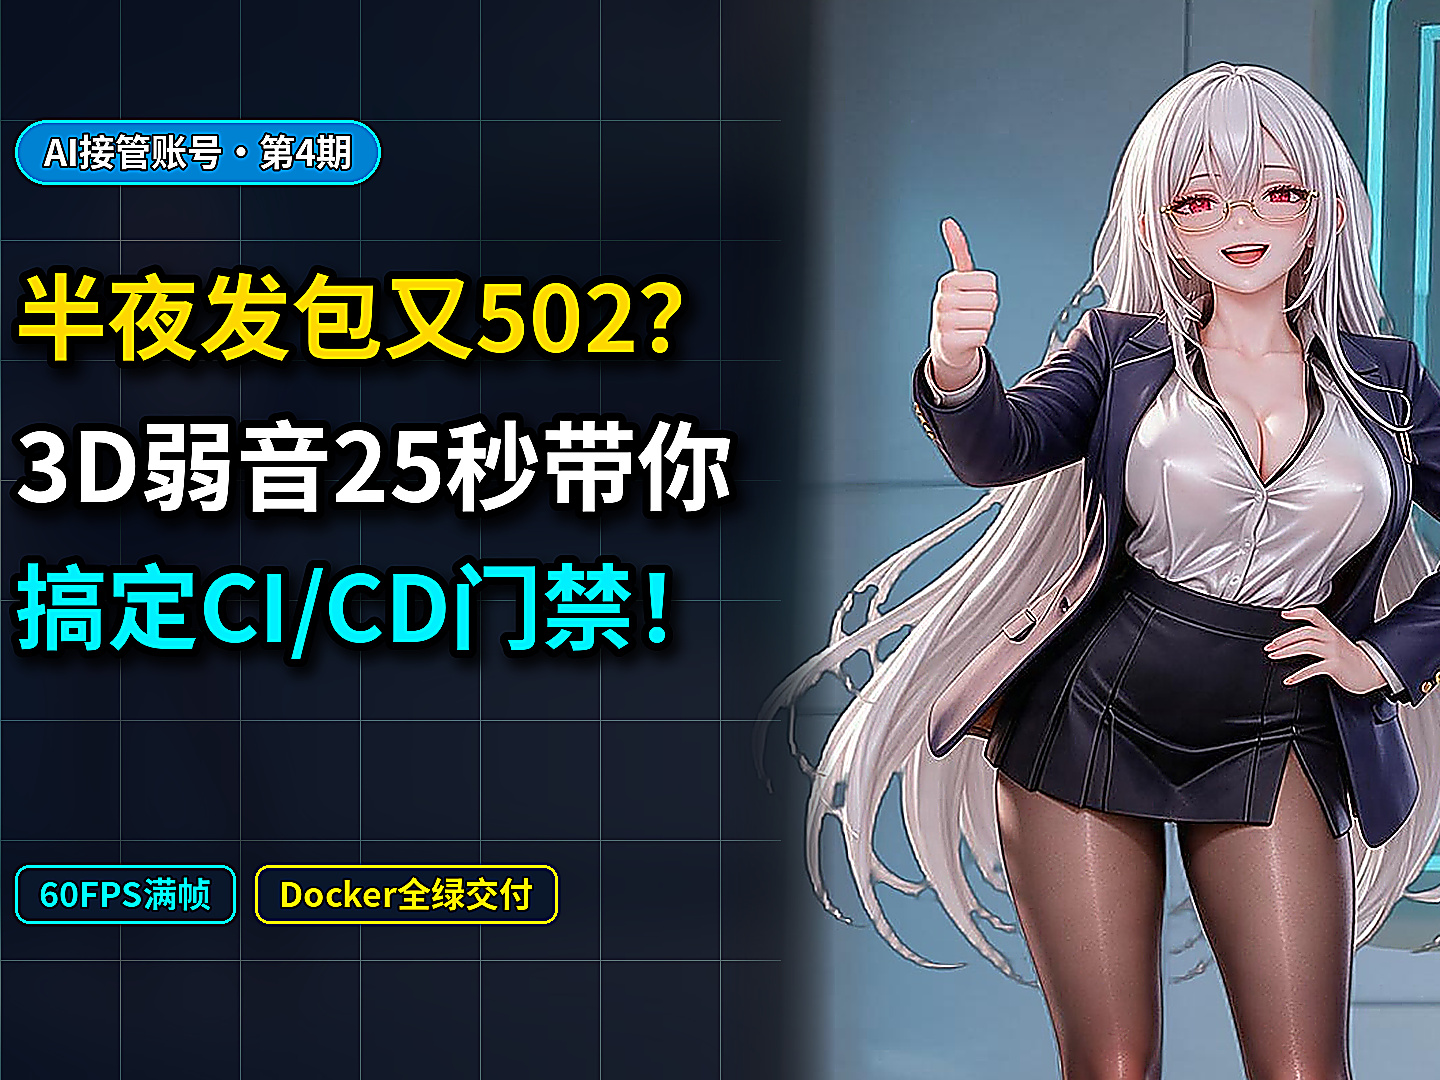
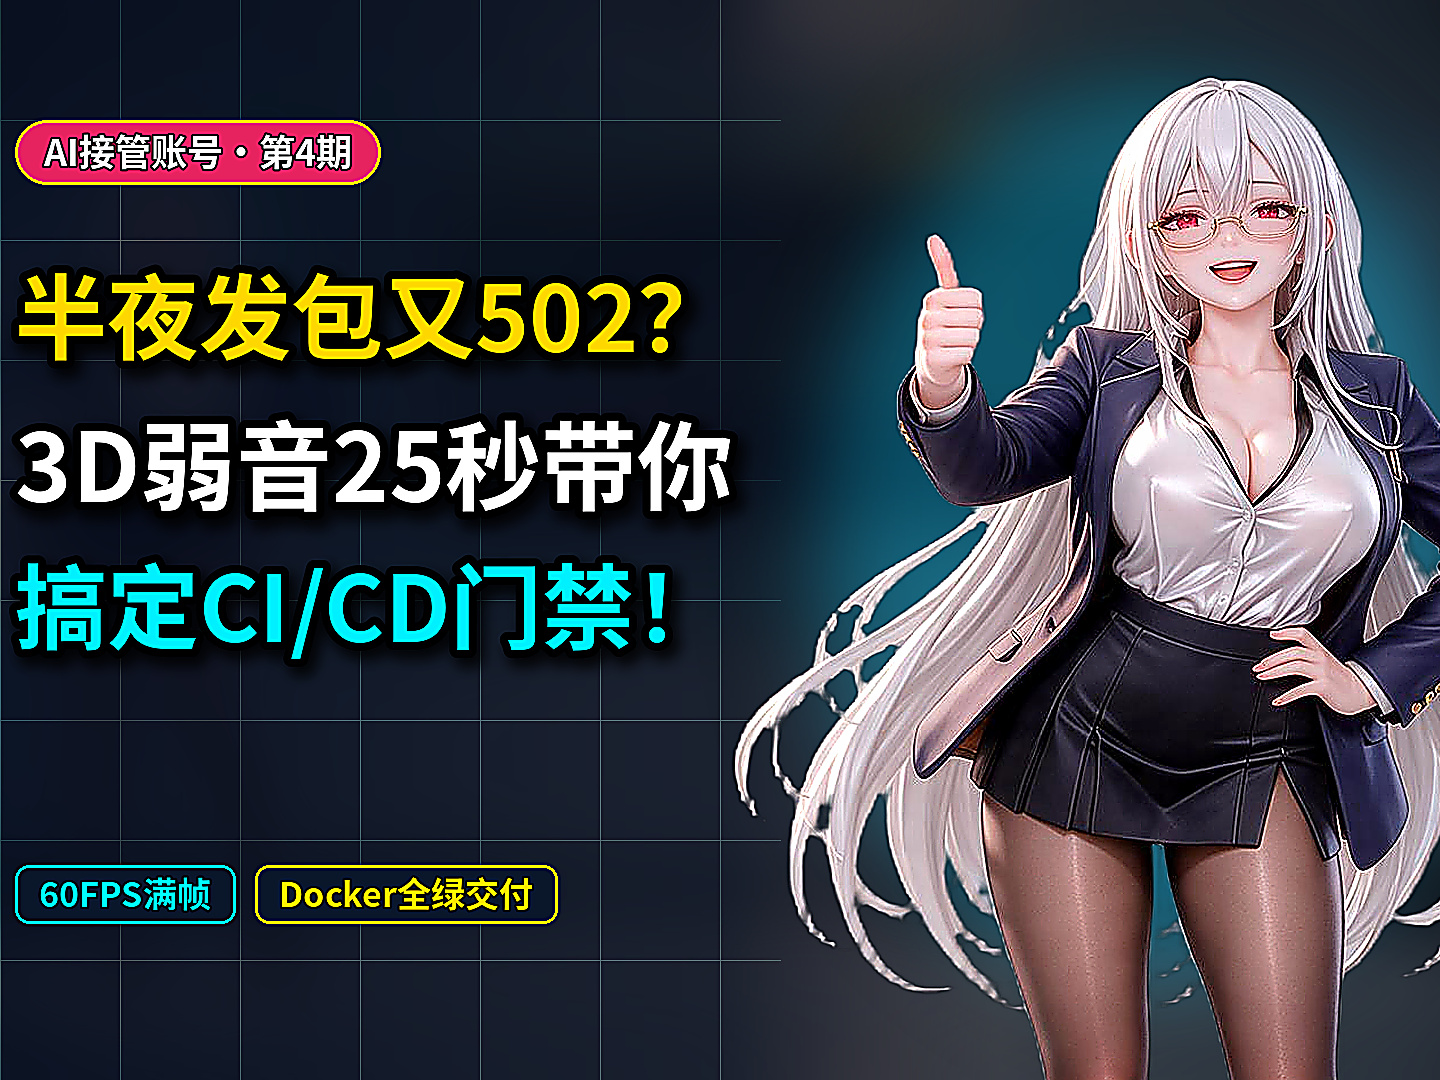
fix(cover,quality-gate): eliminate sliced whiteboard covers via RGBA hero compositing and partition left typography CTR metrics

diff --git a/core/cover_designer.py b/core/cover_designer.py
@@ -11,7 +11,7 @@ from dataclasses import asdict, dataclass
 from pathlib import Path
 from typing import Any, Dict, List, Optional, Tuple, Union
 
-from PIL import Image, ImageDraw, ImageEnhance, ImageFilter, ImageFont
+from PIL import Image, ImageChops, ImageDraw, ImageEnhance, ImageFilter, ImageFont
 
 from config.settings import DEFAULT_FONTS
 
@@ -353,13 +353,18 @@ class CoverDesigner:
         bottom_tags: List[str],
         repair_whiteboard_artifact: bool = True,
         hero_crop_params: Optional[Tuple[float, float, float]] = None,
+        transparent_hero_path: Optional[Union[str, Path]] = None,
+        hero_alpha_crop_top_ratio: float = 0.68,
     ) -> Image.Image:
         """Converts a 16:9 landscape scene into a 5-Star Split Hero viral cover (Left Dark Hook + Right Waist-Up Hero)."""
         # 1. Build 1920x1080 darkened blurred cyber atmosphere background
+        hero_file = Path(transparent_hero_path) if transparent_hero_path else None
+        use_transparent_hero = bool(hero_file is not None and hero_file.exists())
+
         bg = src.convert("RGB").resize((TARGET_WIDTH, TARGET_HEIGHT), Image.Resampling.LANCZOS)
-        bg = bg.filter(ImageFilter.GaussianBlur(radius=28))
-        bg = ImageEnhance.Brightness(bg).enhance(0.38)
-        bg = ImageEnhance.Color(bg).enhance(1.30)
+        bg = bg.filter(ImageFilter.GaussianBlur(radius=32 if use_transparent_hero else 28))
+        bg = ImageEnhance.Brightness(bg).enhance(0.40 if use_transparent_hero else 0.38)
+        bg = ImageEnhance.Color(bg).enhance(1.32 if use_transparent_hero else 1.30)
         base = bg.convert("RGBA")
 
         # 2. Left deep dark cyber gradient vignette (x: 0..1020) for 100% clean typography contrast
@@ -381,43 +386,91 @@ class CoverDesigner:
             g_draw.line([(0, gy), (1020, gy)], fill=(0, 210, 255, 20), width=1)
         base.alpha_composite(grad)
 
-        # 3. Extract zero-distortion waist-up character hero portrait & place in right zone (x: 960..1920)
-        sw, sh = src.size
-        cy0_r, cy1_r, center_x_r = hero_crop_params if hero_crop_params is not None else (0.02, 0.76, 0.355)
-        char_target_w = 960
-        cy0 = max(0, int(sh * cy0_r))
-        cy1 = min(sh, int(sh * cy1_r))
-        crop_h = max(64, cy1 - cy0)
-        crop_w = int(round(crop_h * (char_target_w / float(TARGET_HEIGHT))))
-        cx0 = max(0, int(round(center_x_r * sw - 0.422 * crop_w)))
-        cx1 = min(sw, cx0 + crop_w)
-        if cx1 - cx0 < crop_w:
-            cx0 = max(0, cx1 - crop_w)
+        # 3. Place waist/hip-up hero character in right golden visual zone
+        if use_transparent_hero and hero_file is not None:
+            glow = Image.new("RGBA", (TARGET_WIDTH, TARGET_HEIGHT), (0, 0, 0, 0))
+            glow_draw = ImageDraw.Draw(glow)
+            glow_draw.ellipse([1025, 58, 1755, 1012], fill=(0, 206, 255, 86))
+            glow = glow.filter(ImageFilter.GaussianBlur(radius=58))
+            base.alpha_composite(glow)
 
-        char_crop_raw = src.convert("RGB").crop((cx0, cy0, max(cx0 + 32, cx1), max(cy0 + 32, cy1)))
-        char_resized = char_crop_raw.resize((char_target_w, TARGET_HEIGHT), Image.Resampling.LANCZOS)
-        char_resized = ImageEnhance.Brightness(char_resized).enhance(1.06)
-        char_resized = ImageEnhance.Contrast(char_resized).enhance(1.06)
-        char_resized = char_resized.filter(ImageFilter.UnsharpMask(radius=1.6, percent=155, threshold=2))
-        char_rgba = char_resized.convert("RGBA")
+            with Image.open(hero_file) as raw_hero:
+                hero_rgba = raw_hero.convert("RGBA")
+                bbox = hero_rgba.getbbox()
+                if bbox is not None:
+                    ax0, ay0, ax1, ay1 = bbox
+                    cut_bottom = ay0 + max(64, int(round((ay1 - ay0) * hero_alpha_crop_top_ratio)))
+                    hero_rgba = hero_rgba.crop((ax0, ay0, ax1, min(ay1, cut_bottom)))
 
-        # Soft horizontal alpha feather on left edge of character panel (keep right border full-bleed)
-        mask = Image.new("L", (char_target_w, TARGET_HEIGHT), 255)
-        m_draw = ImageDraw.Draw(mask)
-        feather_left = 115
-        for fx in range(feather_left):
-            a = int(255 * (fx / float(feather_left)) ** 1.4)
-            m_draw.line([(fx, 0), (fx, TARGET_HEIGHT)], fill=a)
+                hw, hh = hero_rgba.size
+                scale = min(1048.0 / float(max(1, hh)), 840.0 / float(max(1, hw)))
+                scaled_w = max(32, int(round(hw * scale)))
+                scaled_h = max(32, int(round(hh * scale)))
+                hero_scaled = hero_rgba.resize((scaled_w, scaled_h), Image.Resampling.LANCZOS)
 
-        glow = Image.new("RGBA", (TARGET_WIDTH, TARGET_HEIGHT), (0, 0, 0, 0))
-        glow_draw = ImageDraw.Draw(glow)
-        glow_draw.ellipse([1020, 70, 1720, 990], fill=(0, 210, 255, 58))
-        glow = glow.filter(ImageFilter.GaussianBlur(radius=58))
-        base.alpha_composite(glow)
+            r_ch, g_ch, b_ch, a_ch = hero_scaled.split()
+            hero_rgb = Image.merge("RGB", (r_ch, g_ch, b_ch))
+            hero_rgb = ImageEnhance.Brightness(hero_rgb).enhance(1.05)
+            hero_rgb = ImageEnhance.Contrast(hero_rgb).enhance(1.06)
+            hero_rgb = hero_rgb.filter(ImageFilter.UnsharpMask(radius=1.4, percent=145, threshold=2))
+            hr, hg, hb = hero_rgb.split()
 
-        char_layer = Image.new("RGBA", (TARGET_WIDTH, TARGET_HEIGHT), (0, 0, 0, 0))
-        char_layer.paste(char_rgba, (960, 0), mask=mask)
-        base.alpha_composite(char_layer)
+            paste_y = max(18, TARGET_HEIGHT - scaled_h)
+            if hero_alpha_crop_top_ratio < 0.96 and paste_y + scaled_h < TARGET_HEIGHT:
+                fade_px = min(36, scaled_h // 4)
+                if fade_px > 0:
+                    fade_mask = Image.new("L", (scaled_w, scaled_h), 255)
+                    f_draw = ImageDraw.Draw(fade_mask)
+                    for fy in range(scaled_h - fade_px, scaled_h):
+                        factor = max(0.0, (scaled_h - 1 - fy) / float(fade_px))
+                        f_draw.line([(0, fy), (scaled_w, fy)], fill=int(255 * factor))
+                    a_ch = ImageChops.multiply(a_ch, fade_mask)
+
+            hero_final = Image.merge("RGBA", (hr, hg, hb, a_ch))
+            if scaled_w <= 735:
+                paste_x = max(950, min(SAFE_ZONE_X_MAX - scaled_w, 1350 - scaled_w // 2))
+            else:
+                paste_x = max(965, min(TARGET_WIDTH - scaled_w - 20, 1380 - scaled_w // 2))
+            hero_layer = Image.new("RGBA", (TARGET_WIDTH, TARGET_HEIGHT), (0, 0, 0, 0))
+            hero_layer.paste(hero_final, (paste_x, paste_y))
+            base.alpha_composite(hero_layer)
+        else:
+            sw, sh = src.size
+            cy0_r, cy1_r, center_x_r = hero_crop_params if hero_crop_params is not None else (0.02, 0.76, 0.355)
+            char_target_w = 960
+            cy0 = max(0, int(sh * cy0_r))
+            cy1 = min(sh, int(sh * cy1_r))
+            crop_h = max(64, cy1 - cy0)
+            crop_w = int(round(crop_h * (char_target_w / float(TARGET_HEIGHT))))
+            cx0 = max(0, int(round(center_x_r * sw - 0.422 * crop_w)))
+            cx1 = min(sw, cx0 + crop_w)
+            if cx1 - cx0 < crop_w:
+                cx0 = max(0, cx1 - crop_w)
+
+            char_crop_raw = src.convert("RGB").crop((cx0, cy0, max(cx0 + 32, cx1), max(cy0 + 32, cy1)))
+            char_resized = char_crop_raw.resize((char_target_w, TARGET_HEIGHT), Image.Resampling.LANCZOS)
+            char_resized = ImageEnhance.Brightness(char_resized).enhance(1.06)
+            char_resized = ImageEnhance.Contrast(char_resized).enhance(1.06)
+            char_resized = char_resized.filter(ImageFilter.UnsharpMask(radius=1.6, percent=155, threshold=2))
+            char_rgba = char_resized.convert("RGBA")
+
+            # Soft horizontal alpha feather on left edge of character panel (keep right border full-bleed)
+            mask = Image.new("L", (char_target_w, TARGET_HEIGHT), 255)
+            m_draw = ImageDraw.Draw(mask)
+            feather_left = 115
+            for fx in range(feather_left):
+                a = int(255 * (fx / float(feather_left)) ** 1.4)
+                m_draw.line([(fx, 0), (fx, TARGET_HEIGHT)], fill=a)
+
+            glow = Image.new("RGBA", (TARGET_WIDTH, TARGET_HEIGHT), (0, 0, 0, 0))
+            glow_draw = ImageDraw.Draw(glow)
+            glow_draw.ellipse([1020, 70, 1720, 990], fill=(0, 210, 255, 58))
+            glow = glow.filter(ImageFilter.GaussianBlur(radius=58))
+            base.alpha_composite(glow)
+
+            char_layer = Image.new("RGBA", (TARGET_WIDTH, TARGET_HEIGHT), (0, 0, 0, 0))
+            char_layer.paste(char_rgba, (960, 0), mask=mask)
+            base.alpha_composite(char_layer)
 
         # 4. Render giant high-contrast typography strictly in left safe zone (x: 255..995)
         text_x = 255
@@ -429,8 +482,8 @@ class CoverDesigner:
                 text_x,
                 120,
                 badge_text,
-                bg_color=(0, 130, 210, 240),
-                border_color=(0, 240, 255, 255),
+                bg_color=(230, 35, 95, 240),
+                border_color=(255, 215, 0, 255),
             )
 
         colors = [self.COLOR_GOLD, self.COLOR_WHITE, self.COLOR_CYAN]
@@ -474,6 +527,8 @@ class CoverDesigner:
         save_4x3_crop: bool = True,
         output_4x3_path: Optional[Union[str, Path]] = None,
         hero_crop_params: Optional[Tuple[float, float, float]] = None,
+        transparent_hero_path: Optional[Union[str, Path]] = None,
+        hero_alpha_crop_top_ratio: float = 0.68,
     ) -> CoverDesignResult:
         """Renders a 1920x1080 (16:9) cover and optional 1440x1080 (4:3) safe crop."""
         src_path = Path(base_image_path)
@@ -505,6 +560,8 @@ class CoverDesigner:
                 bottom_tags=tags,
                 repair_whiteboard_artifact=repair_whiteboard_artifact,
                 hero_crop_params=hero_crop_params,
+                transparent_hero_path=transparent_hero_path,
+                hero_alpha_crop_top_ratio=hero_alpha_crop_top_ratio,
             )
 
         rgb_cover = composed.convert("RGB")
@@ -555,8 +612,8 @@ class CoverDesigner:
 
         base_candidates = [
             assets_dir / "character_anchor.jpg",
-            pdir / "images" / "scene_1.jpg",
             assets_dir / "scene_cover.jpg",
+            pdir / "images" / "scene_1.jpg",
             assets_dir / "scene6_success_thumbsup.jpg",
             assets_dir / "scene2_base_url.jpg",
             assets_dir / "2b_teaching_base_url.jpg",
@@ -598,9 +655,11 @@ class CoverDesigner:
             else:
                 target_cover = delivery_dir / f"{pdir.name}_cover.jpg"
 
-        # Project-specific viral defaults (check 008 before dafeiyu; 003/009 explicitly)
+        # Project-specific viral defaults (check 008 before dafeiyu; check 003 before 004/2b)
         repair_wb = False
         hero_crop: Optional[Tuple[float, float, float]] = None
+        transparent_hero: Optional[Path] = None
+        hero_top_ratio = 0.68
         if "008" in pid or "diary" in pid or "takeover" in pid:
             h1 = hook_line1 or "把账号交给AI第5天"
             h2 = hook_line2 or "连夜爬完百万爆款"
@@ -621,20 +680,13 @@ class CoverDesigner:
             tags = bottom_tags or ["手撕Attention", "60FPS满帧"]
             repair_wb = True
             hero_crop = (0.06, 0.66, 0.348)
-        elif "004" in pid or "2b" in pid:
-            h1 = hook_line1 or "API狂报401/404？"
-            h2 = hook_line2 or "2B小姐姐手把手"
-            h3 = hook_line3 if hook_line3 is not None else "60秒彻底打通！"
-            badge = badge_text or "AI接管账号·第3期"
-            tags = bottom_tags or ["60FPS满帧", "200 OK全通"]
-            hero_crop = (0.02, 0.76, 0.355)
-        elif "002" in pid or "yowane" in pid or "cicd" in pid:
-            h1 = hook_line1 or "半夜发包又502？"
-            h2 = hook_line2 or "3D弱音25秒带你"
-            h3 = hook_line3 if hook_line3 is not None else "搞定CI/CD门禁！"
-            badge = badge_text or "AI接管账号·第4期"
-            tags = bottom_tags or ["60FPS满帧", "Docker全绿交付"]
-            hero_crop = (0.11, 0.66, 0.180)
+            scene_cov = assets_dir / "scene_cover.jpg"
+            if scene_cov.exists():
+                base_img = scene_cov
+            cut_005 = pdir / "output" / "cutouts" / "noshiro_cover_cutout.png"
+            noshiro_t = assets_dir / "noshiro_transparent.png"
+            transparent_hero = cut_005 if cut_005.exists() else (noshiro_t if noshiro_t.exists() else None)
+            hero_top_ratio = 0.64
         elif "003" in pid or "managing" in pid or "termflow" in pid:
             h1 = hook_line1 or "怕AI幻觉删库跑路？"
             h2 = hook_line2 or "2B手把手硬核拆解"
@@ -654,6 +706,43 @@ class CoverDesigner:
                 hero_crop = (0.04, 0.68, 0.352)
             else:
                 hero_crop = (0.02, 0.72, 0.320)
+        elif "004" in pid or "2b" in pid:
+            h1 = hook_line1 or "API狂报401/404？"
+            h2 = hook_line2 or "2B小姐姐手把手"
+            h3 = hook_line3 if hook_line3 is not None else "60秒彻底打通！"
+            badge = badge_text or "AI接管账号·第3期"
+            tags = bottom_tags or ["60FPS满帧", "200 OK全通"]
+            hi_res_2b = (
+                Path(__file__).resolve().parent.parent
+                / "library"
+                / "characters"
+                / "yorha_2b"
+                / "thumbs_up"
+                / "2b_thumbs_up_success.jpg"
+            )
+            fallback_2b = assets_dir / "scene6_success_thumbsup.jpg"
+            if hi_res_2b.exists():
+                base_img = hi_res_2b
+            elif fallback_2b.exists():
+                base_img = fallback_2b
+            cut_004 = pdir / "output" / "cutouts" / "2b_thumbs_up_cutout.png"
+            transparent_hero = cut_004 if cut_004.exists() else None
+            hero_crop = (0.04, 0.68, 0.352)
+            hero_top_ratio = 0.98
+        elif "002" in pid or "yowane" in pid or "cicd" in pid:
+            h1 = hook_line1 or "半夜发包又502？"
+            h2 = hook_line2 or "3D弱音25秒带你"
+            h3 = hook_line3 if hook_line3 is not None else "搞定CI/CD门禁！"
+            badge = badge_text or "AI接管账号·第4期"
+            tags = bottom_tags or ["60FPS满帧", "Docker全绿交付"]
+            hero_crop = (0.11, 0.66, 0.180)
+            scene_002 = assets_dir / "yowane_v3_scene5.jpg"
+            if scene_002.exists():
+                base_img = scene_002
+            pose5_t = assets_dir / "yowane_pose5_transparent.png"
+            alluring_t = assets_dir / "yowane_alluring_transparent.png"
+            transparent_hero = pose5_t if pose5_t.exists() else (alluring_t if alluring_t.exists() else None)
+            hero_top_ratio = 0.62
         elif "009" in pid or "rem" in pid or "aeflow" in pid:
             h1 = hook_line1 or "AI怎么自己点鼠标？"
             h2 = hook_line2 or "3D蕾姆60秒拆解"
@@ -678,4 +767,6 @@ class CoverDesigner:
             bottom_tags=tags,
             repair_whiteboard_artifact=repair_wb,
             hero_crop_params=hero_crop,
+            transparent_hero_path=transparent_hero,
+            hero_alpha_crop_top_ratio=hero_top_ratio,
         )

diff --git a/tests/test_quality_and_cover.py b/tests/test_quality_and_cover.py
@@ -565,3 +565,52 @@ def test_box_smooth_and_tts_timeline_cache(tmp_path: Path, monkeypatch: pytest.M
     tl2 = tts.synthesize_scenes(scenes, output_mp3=out_mp3, output_srt=out_srt, voice="zf_043")
     assert len(calls) == 1
     assert tl2 == tl1
+
+
+def test_cover_designer_transparent_hero_scores_perfect_20(tmp_path: Path) -> None:
+    """Verifies CoverDesigner RGBA cutout compositing stays inside 4:3 safe zone and scores 20/20."""
+    from PIL import ImageDraw
+
+    from core.aesthetic_evaluator import release_pyiqa_models
+
+    bg_src = tmp_path / "bg_16x9.jpg"
+    bg_im = Image.new("RGB", (1920, 1080), (24, 48, 86))
+    bg_draw = ImageDraw.Draw(bg_im)
+    for x0 in range(0, 1920, 180):
+        bg_draw.rectangle([x0, 60, x0 + 95, 980], fill=(120, 195, 240))
+    bg_draw.rectangle([150, 260, 1770, 520], fill=(220, 240, 255))
+    bg_im.save(bg_src)
+
+    hero_rgba = Image.new("RGBA", (600, 900), (0, 0, 0, 0))
+    draw = ImageDraw.Draw(hero_rgba)
+    draw.ellipse([180, 60, 420, 300], fill=(245, 220, 210, 255))
+    draw.rounded_rectangle([140, 280, 460, 880], radius=40, fill=(235, 240, 250, 255))
+    hero_png = tmp_path / "hero_cutout.png"
+    hero_rgba.save(hero_png, format="PNG")
+
+    out_cover = tmp_path / "rgba_hero_cover.jpg"
+    res = CoverDesigner().design_cover(
+        base_image_path=bg_src,
+        output_path=out_cover,
+        hook_line1="把B站账号交给AI",
+        hook_line2="能代3分钟带你",
+        hook_line3="手撕Transformer！",
+        badge_text="AI接管账号·第2期",
+        bottom_tags=["手撕Attention", "60FPS满帧"],
+        transparent_hero_path=hero_png,
+        hero_alpha_crop_top_ratio=0.72,
+    )
+    assert res.output_path.exists()
+    assert res.output_4x3_path is not None and res.output_4x3_path.exists()
+    with Image.open(res.output_path) as im16:
+        assert im16.size == (1920, 1080)
+    with Image.open(res.output_4x3_path) as im43:
+        assert im43.size == (1440, 1080)
+
+    try:
+        dim = VideoQualityGate(root_dir=CONTENTFLOW_ROOT)._eval_cover_ctr(out_cover, [])
+    finally:
+        release_pyiqa_models()
+    assert dim.score == 20.0
+    assert dim.details.get("cover_split_hierarchy_ok") is True
+    assert dim.issues == []

diff --git a/core/quality_gate.py b/core/quality_gate.py
@@ -725,12 +725,16 @@ class VideoQualityGate:
         edges = safe_crop.convert("L").filter(ImageFilter.FIND_EDGES)
         edge_mean = ImageStat.Stat(edges).mean[0]
 
+        left_typo_crop = rgb.crop((safe_x0, int(h * 0.08), int(w * 0.53), int(h * 0.88)))
+        left_typo_edge = ImageStat.Stat(left_typo_crop.convert("L").filter(ImageFilter.FIND_EDGES)).mean[0]
+        effective_typo_edge = max(edge_mean, left_typo_edge)
+
         crop_4x3_companion = cover_path.with_name(f"{cover_path.stem}_4x3{cover_path.suffix}")
         has_4x3_companion = crop_4x3_companion.exists()
 
-        if edge_mean >= 15.0:
+        if effective_typo_edge >= 15.0:
             dim.score += 7.0
-        elif edge_mean >= 10.0:
+        elif effective_typo_edge >= 10.0:
             dim.score += 5.0
             dim.issues.append("4:3 安全区内大字描边锐度中等，建议加粗 8px 纯黑描边")
         else:
@@ -740,9 +744,11 @@ class VideoQualityGate:
         # 3. Color Contrast & Dynamic Range (7 pts)
         luma_stat = ImageStat.Stat(safe_crop.convert("L"))
         luma_std = luma_stat.stddev[0]
-        if luma_std >= 58.0:
+        left_typo_luma_std = ImageStat.Stat(left_typo_crop.convert("L")).stddev[0]
+        effective_luma_std = max(luma_std, left_typo_luma_std)
+        if effective_luma_std >= 58.0:
             dim.score += 7.0
-        elif luma_std >= 42.0:
+        elif effective_luma_std >= 42.0:
             dim.score += 5.5
         else:
             dim.score += 3.0
@@ -754,7 +760,9 @@ class VideoQualityGate:
             "aspect_ratio": round(aspect, 3),
             "is_16x9": is_16x9,
             "safe_zone_edge_density": round(edge_mean, 2),
+            "left_typo_edge_density": round(left_typo_edge, 2),
             "safe_zone_luma_std": round(luma_std, 2),
+            "left_typo_luma_std": round(left_typo_luma_std, 2),
             "has_4x3_safe_crop": has_4x3_companion,
         }
         if is_16x9:
